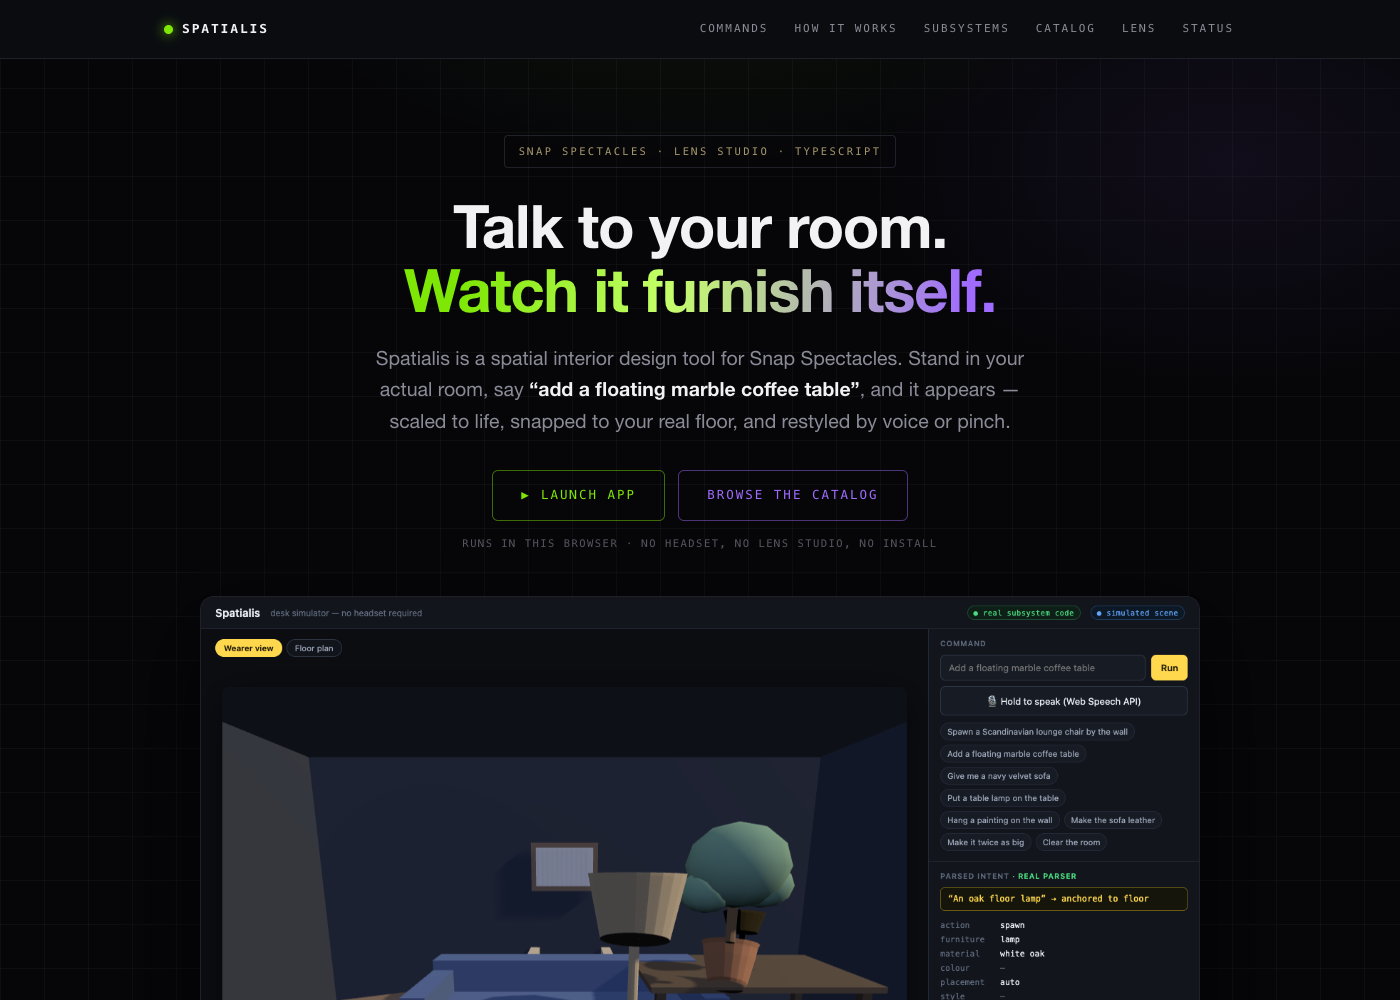
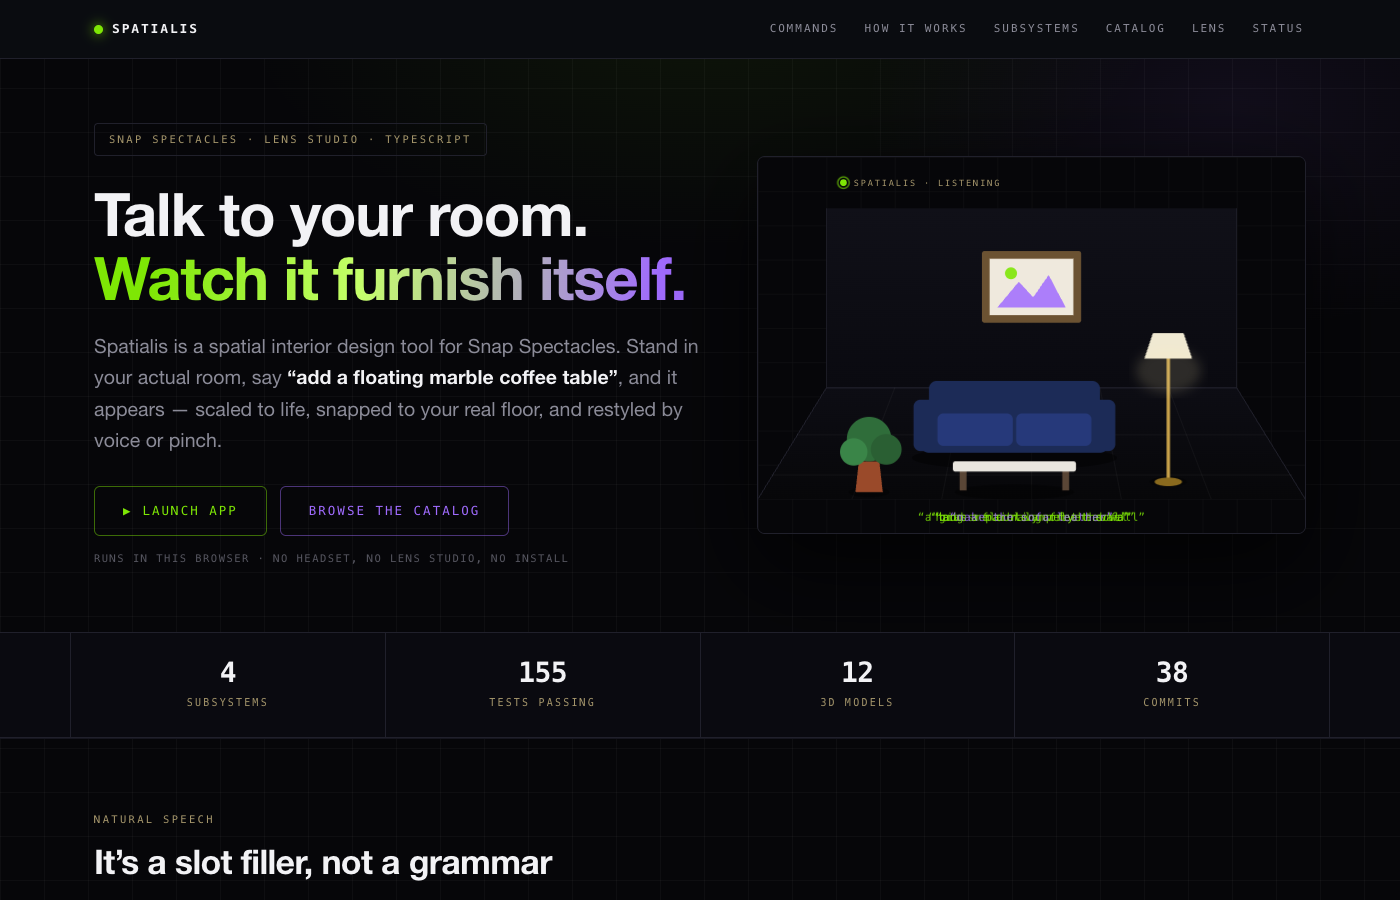
feat(landing): two-column hero with an animated product loop; drop the app screenshot
The hero now puts the copy on the left and motion on the right: an inline
SVG room in which a spoken caption cycles and the matching piece pops in -
sofa, coffee table, floor lamp, painting, plant - then the sofa recolours
on 'make the sofa leather', everything fades, and the loop repeats every
fifteen seconds. Pure CSS keyframes on the site palette, no dependencies;
reduced-motion users get a static furnished room. The large app screenshot
that followed the hero, panels and console included, is removed - the app
itself is one click away.

diff --git a/index.html b/index.html
@@ -107,6 +107,34 @@
     font-size:12.5px;color:var(--ink-faint);text-align:left;background:var(--panel);
   }
 
+
+  /* ---------- hero: copy left, motion right ---------- */
+  .hero .wrap{text-align:left;padding-top:64px;padding-bottom:64px}
+  .hero-grid{display:grid;grid-template-columns:1.05fr .95fr;gap:56px;align-items:center}
+  .hero-copy .lede{margin:0 0 30px}
+  .hero-copy .cta{justify-content:flex-start;margin-bottom:14px}
+  .hero-art{position:relative;border:1px solid var(--line);border-radius:8px;overflow:hidden;background:var(--panel);
+    box-shadow:0 34px 90px rgba(0,0,0,.7)}
+  .hero-art svg{display:block;width:100%;height:auto}
+  @media(max-width:900px){.hero-grid{grid-template-columns:1fr;gap:34px}.hero .wrap{padding-top:44px}}
+
+  /* Timeline: 15s loop. Each piece pops at --d, holds, and everything fades at 96-100%. */
+  .piece{opacity:0;transform-box:fill-box;transform-origin:50% 100%;animation:pop 15s cubic-bezier(.2,.9,.3,1.25) infinite;animation-delay:calc(var(--d) * 15s / 100%)}
+  @keyframes pop{0%{opacity:0;transform:scale(.2) translateY(14px)}5%{opacity:1;transform:scale(1) translateY(0)}
+    88%{opacity:1;transform:scale(1)}96%{opacity:0;transform:scale(.9)}100%{opacity:0}}
+  .cap{opacity:0;animation:cap 15s ease-in-out infinite;animation-delay:calc(var(--d) * 15s / 100%)}
+  @keyframes cap{0%{opacity:0;transform:translateY(6px)}4%{opacity:1;transform:translateY(0)}18%{opacity:1}22%{opacity:0}100%{opacity:0}}
+  /* the sofa recolours on the last caption */
+  .sofa-body{animation:recolor 15s linear infinite}
+  .sofa-cushion{animation:recolor2 15s linear infinite}
+  @keyframes recolor{0%,86%{fill:#1c2b57}90%,94%{fill:#7a4a28}100%{fill:#1c2b57}}
+  @keyframes recolor2{0%,86%{fill:#26397a}90%,94%{fill:#9a6238}100%{fill:#26397a}}
+  .listen .ring{animation:ring 1.8s ease-out infinite}
+  @keyframes ring{0%{r:4;opacity:.9}100%{r:16;opacity:0}}
+  .lamp-glow{animation:flicker 3s ease-in-out infinite}
+  @keyframes flicker{0%,100%{opacity:.14}50%{opacity:.26}}
+  @media(prefers-reduced-motion:reduce){.piece,.cap{animation:none;opacity:1}.cap:not(:first-of-type){display:none}.sofa-body,.sofa-cushion,.listen .ring,.lamp-glow{animation:none}}
+
   /* ---------- stats ---------- */
   .stats{border-bottom:1px solid var(--line);background:var(--panel)}
   .stats .wrap{display:grid;grid-template-columns:repeat(4,1fr);gap:1px;
@@ -261,28 +289,103 @@
 </div></nav>
 
 <header class="hero"><div class="wrap">
-  <div class="eyebrow">Snap Spectacles · Lens Studio · TypeScript</div>
-  <h1>Talk to your room.<br><span class="grad">Watch it furnish itself.</span></h1>
-  <p class="lede">
-    Spatialis is a spatial interior design tool for Snap Spectacles. Stand in your
-    actual room, say <b>“add a floating marble coffee table”</b>, and it appears —
-    scaled to life, snapped to your real floor, and restyled by voice or pinch.
-  </p>
-  <div class="cta">
-    <a class="btn primary lg" href="./Simulator/">
-      <span>▶</span> Launch app
-    </a>
-    <a class="btn violet lg" href="./Tools/preview_furniture.html">Browse the catalog</a>
-  </div>
-  <div class="cta-note">runs in this browser · no headset, no Lens Studio, no install</div>
+  <div class="hero-grid">
+    <div class="hero-copy">
+      <div class="eyebrow">Snap Spectacles · Lens Studio · TypeScript</div>
+      <h1>Talk to your room.<br><span class="grad">Watch it furnish itself.</span></h1>
+      <p class="lede">
+        Spatialis is a spatial interior design tool for Snap Spectacles. Stand in your
+        actual room, say <b>“add a floating marble coffee table”</b>, and it appears —
+        scaled to life, snapped to your real floor, and restyled by voice or pinch.
+      </p>
+      <div class="cta">
+        <a class="btn primary lg" href="./Simulator/"><span>▶</span> Launch app</a>
+        <a class="btn violet lg" href="./Tools/preview_furniture.html">Browse the catalog</a>
+      </div>
+      <div class="cta-note">runs in this browser · no headset, no Lens Studio, no install</div>
+    </div>
 
-  <figure class="shot">
-    <img src="./docs/wearer-view.png" alt="The Spatialis wearer view: a room furnished by spoken commands">
-    <figcaption>
-      The wearer view — camera at eye height. Every object here was placed by a
-      spoken sentence, rendering the project’s real <code>.glb</code> assets.
-    </figcaption>
-  </figure>
+    <div class="hero-art" aria-label="Animated: spoken commands placing furniture in a room">
+      <svg viewBox="0 0 640 440" xmlns="http://www.w3.org/2000/svg" role="img">
+        <defs>
+          <linearGradient id="wallg" x1="0" y1="0" x2="0" y2="1">
+            <stop offset="0" stop-color="#101018"/><stop offset="1" stop-color="#0a0a10"/>
+          </linearGradient>
+          <linearGradient id="floorg" x1="0" y1="0" x2="0" y2="1">
+            <stop offset="0" stop-color="#0d0d14"/><stop offset="1" stop-color="#070709"/>
+          </linearGradient>
+          <pattern id="gridp" width="40" height="40" patternUnits="userSpaceOnUse">
+            <path d="M40 0H0V40" fill="none" stroke="rgba(255,255,255,.05)" stroke-width="1"/>
+          </pattern>
+          <filter id="glow"><feGaussianBlur stdDeviation="6"/></filter>
+        </defs>
+
+        <!-- room -->
+        <rect x="0" y="0" width="640" height="440" fill="#060609"/>
+        <rect x="0" y="0" width="640" height="440" fill="url(#gridp)"/>
+        <polygon points="80,60 560,60 560,270 80,270" fill="url(#wallg)"/>
+        <polygon points="80,270 560,270 640,400 0,400" fill="url(#floorg)"/>
+        <polyline points="80,270 560,270" stroke="#20202b" stroke-width="1.5" fill="none"/>
+        <polyline points="80,60 80,270 0,400" stroke="#20202b" stroke-width="1" fill="none"/>
+        <polyline points="560,60 560,270 640,400" stroke="#20202b" stroke-width="1" fill="none"/>
+        <!-- floor lines -->
+        <g stroke="rgba(255,255,255,.045)" stroke-width="1">
+          <line x1="160" y1="270" x2="110" y2="400"/><line x1="240" y1="270" x2="215" y2="400"/>
+          <line x1="320" y1="270" x2="320" y2="400"/><line x1="400" y1="270" x2="425" y2="400"/>
+          <line x1="480" y1="270" x2="530" y2="400"/><line x1="46" y1="325" x2="594" y2="325"/><line x1="16" y1="372" x2="624" y2="372"/>
+        </g>
+
+        <!-- listening indicator -->
+        <g class="listen">
+          <circle cx="100" cy="30" r="4" fill="#7ee705"/><circle class="ring" cx="100" cy="30" r="4" fill="none" stroke="#7ee705" stroke-width="1.5"/>
+          <text x="112" y="34" font-family="SF Mono, Menlo, monospace" font-size="10" letter-spacing="2.2" fill="#a5966b">SPATIALIS · LISTENING</text>
+        </g>
+
+        <!-- pieces: each pops in on its beat, all fade at the loop end -->
+        <g class="piece sofa" style="--d:8%">
+          <ellipse cx="300" cy="352" rx="120" ry="14" fill="rgba(0,0,0,.45)"/>
+          <rect x="190" y="290" width="220" height="56" rx="10" class="sofa-body" fill="#1c2b57"/>
+          <rect x="200" y="262" width="200" height="40" rx="9" class="sofa-body" fill="#1c2b57"/>
+          <rect x="182" y="284" width="26" height="60" rx="8" class="sofa-body" fill="#1c2b57"/>
+          <rect x="392" y="284" width="26" height="60" rx="8" class="sofa-body" fill="#1c2b57"/>
+          <rect x="210" y="300" width="88" height="38" rx="7" class="sofa-cushion" fill="#26397a"/>
+          <rect x="302" y="300" width="88" height="38" rx="7" class="sofa-cushion" fill="#26397a"/>
+        </g>
+        <g class="piece table" style="--d:30%">
+          <ellipse cx="300" cy="392" rx="70" ry="9" fill="rgba(0,0,0,.4)"/>
+          <rect x="236" y="366" width="8" height="24" fill="#5a4636"/><rect x="356" y="366" width="8" height="24" fill="#5a4636"/>
+          <rect x="228" y="356" width="144" height="12" rx="3" fill="#e9e6df"/>
+        </g>
+        <g class="piece lamp" style="--d:53%">
+          <ellipse cx="480" cy="380" rx="22" ry="6" fill="rgba(0,0,0,.4)"/>
+          <rect x="478" y="230" width="4" height="150" fill="#c9a24a"/>
+          <ellipse cx="480" cy="380" rx="16" ry="5" fill="#8a6a1e"/>
+          <polygon points="452,236 508,236 498,206 462,206" fill="#f0e9d2"/>
+          <ellipse class="lamp-glow" cx="480" cy="250" rx="38" ry="26" fill="#fff1b8" opacity=".18" filter="url(#glow)"/>
+        </g>
+        <g class="piece art" style="--d:73%">
+          <rect x="262" y="110" width="116" height="84" rx="3" fill="#6b5232"/>
+          <rect x="271" y="119" width="98" height="66" fill="#efe9dd"/>
+          <path d="M280 176 L305 146 L322 164 L340 138 L360 176 Z" fill="#a06bff" opacity=".85"/>
+          <circle cx="296" cy="136" r="7" fill="#7ee705" opacity=".9"/>
+        </g>
+        <g class="piece plant" style="--d:60%">
+          <ellipse cx="130" cy="392" rx="24" ry="6" fill="rgba(0,0,0,.4)"/>
+          <polygon points="114,392 146,392 142,356 118,356" fill="#9a4a2a"/>
+          <circle cx="130" cy="330" r="26" fill="#2f6d3a"/><circle cx="112" cy="345" r="16" fill="#3a8548"/><circle cx="150" cy="342" r="18" fill="#2a5f33"/>
+        </g>
+
+        <!-- captions: one per beat -->
+        <g font-family="SF Mono, Menlo, monospace" font-size="13" letter-spacing=".5" text-anchor="middle">
+          <text class="cap" style="--d:2%"  x="320" y="426" fill="#7ee705">“give me a navy velvet sofa”</text>
+          <text class="cap" style="--d:24%" x="320" y="426" fill="#7ee705">“add a marble coffee table”</text>
+          <text class="cap" style="--d:47%" x="320" y="426" fill="#7ee705">“a brass floor lamp by the wall”</text>
+          <text class="cap" style="--d:67%" x="320" y="426" fill="#7ee705">“hang a painting on the wall”</text>
+          <text class="cap" style="--d:84%" x="320" y="426" fill="#a06bff">“make the sofa leather”</text>
+        </g>
+      </svg>
+    </div>
+  </div>
 </div></header>
 
 <div class="stats"><div class="wrap">
